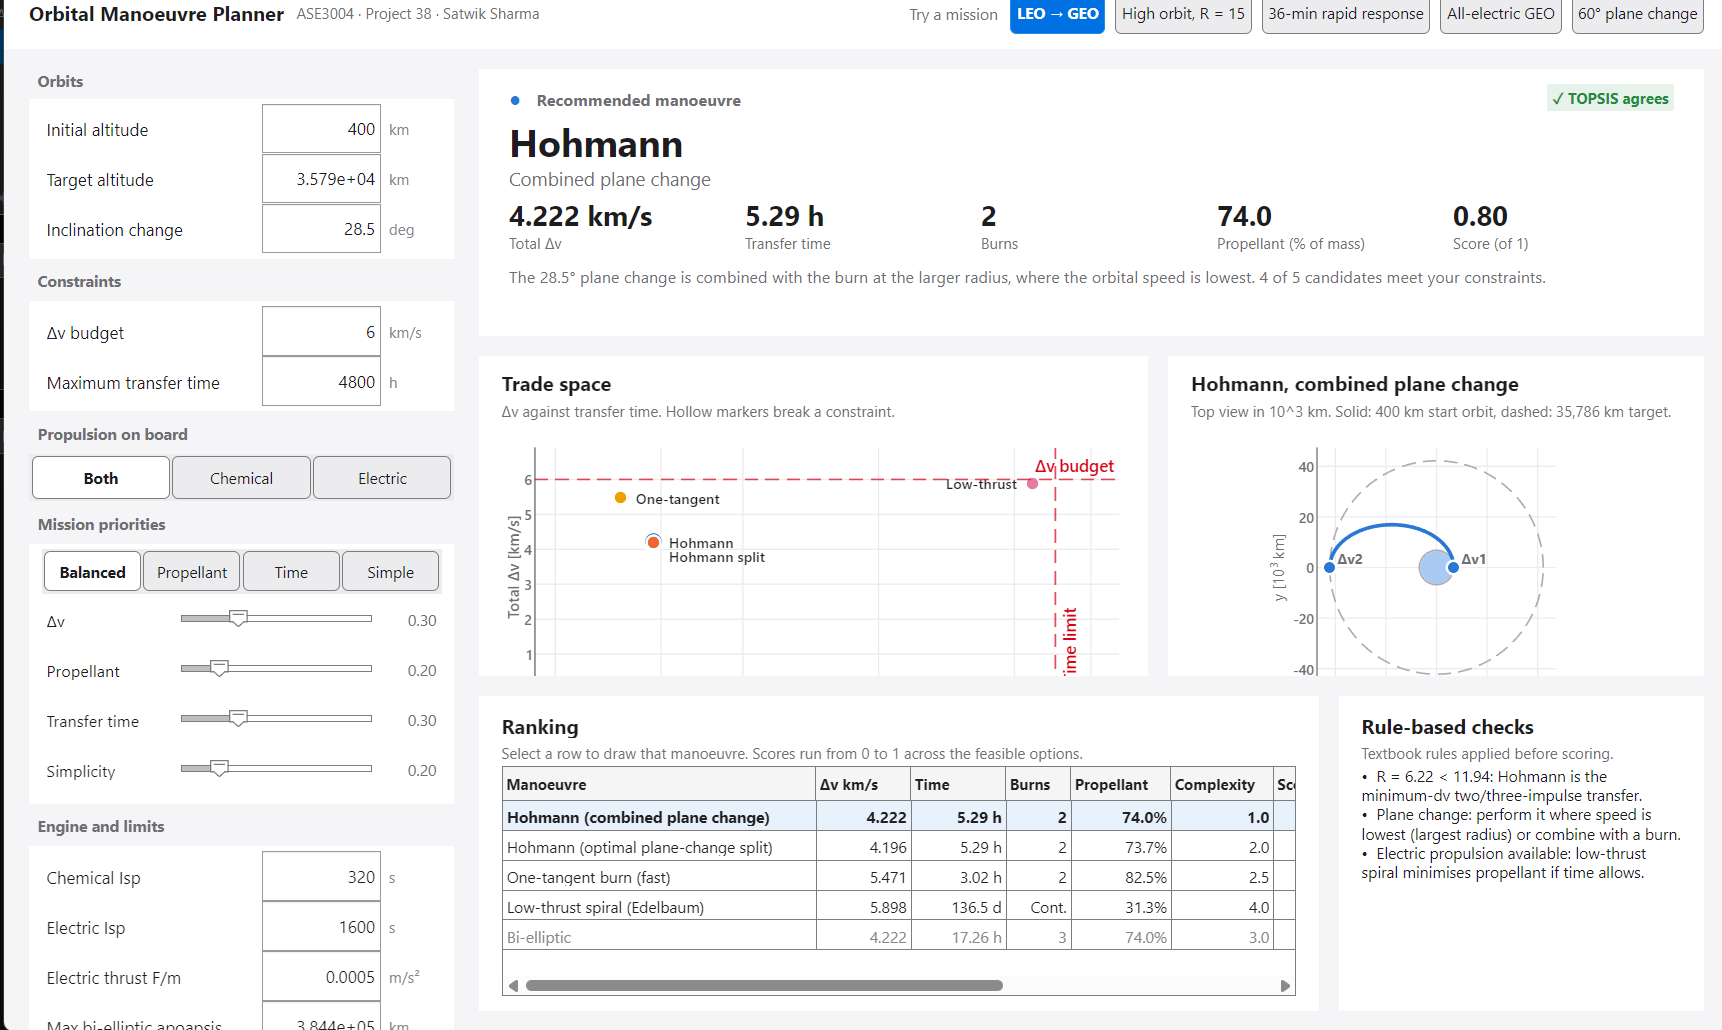
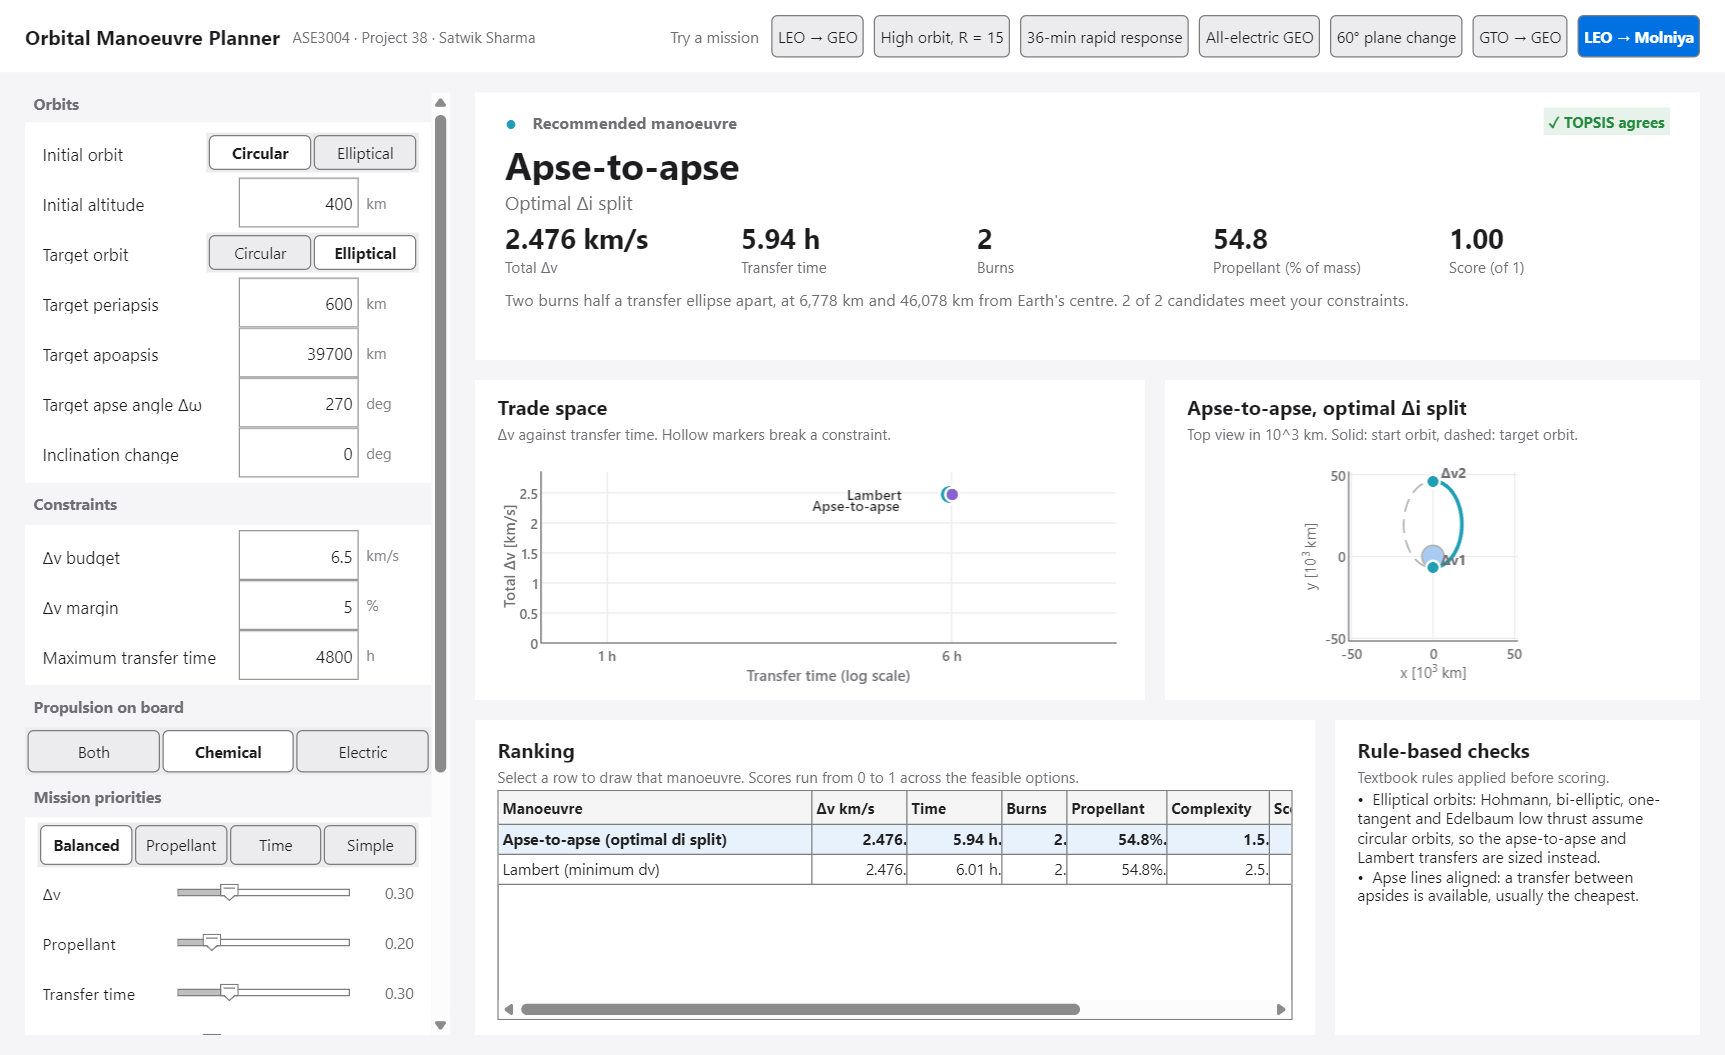
README: demo GIF and MATLAB screenshot with elliptical orbits
The demo GIF now clicks 36-min rapid response, GTO -> GEO, LEO ->
Molniya and LEO -> GEO, with the Orbits card's Circular/Elliptical
switches, apoapsis and apse-angle rows in view; 960 x 658, 11 s,
0.9 MB, real-time playback (frames merged to >= 40 ms), palette
including the apse-to-apse and Lambert colours. The MATLAB app
screenshot shows LEO to a Molniya-sized orbit in R2026b, with the
margin row, full-width number fields and the current propellant.

diff --git a/README.md b/README.md
@@ -4,7 +4,7 @@
 
 **Which manoeuvre should a mission fly?** A decision-support tool that sizes the candidate orbital transfers, optimises each one numerically, removes those that break the mission's constraints and ranks the rest by the mission's priorities. Five transfers between circular orbits; apse-to-apse and Lambert transfers when either orbit is elliptical. Built in MATLAB and Simulink, cross-checked in Python and NASA GMAT, with an interactive web planner.
 
-![Web planner demo: picking example missions re-ranks the manoeuvres and draws each transfer](assets/demo.gif)
+![Web planner demo: picking example missions, circular and elliptical (GTO → GEO, LEO → Molniya), re-ranks the manoeuvres and draws each transfer](assets/demo.gif)
 
 **[Try the live demo](https://satwiksharma01.github.io/orbital-manoeuvre-decision-support/web/)**
 
@@ -52,7 +52,7 @@ Given an initial and a target orbit (circular, or elliptical with a periapsis an
 
 | MATLAB GUI | Simulink model |
 |---|---|
-| ![MATLAB app](assets/matlab_app.png) | ![Simulink model](assets/simulink_model.png) |
+| ![MATLAB app: LEO to a Molniya-sized elliptical orbit](assets/matlab_app.png) | ![Simulink model](assets/simulink_model.png) |
 
 ![Case A results](assets/case_A_bars.png)
 ![Decision map](assets/decision_map.png)
